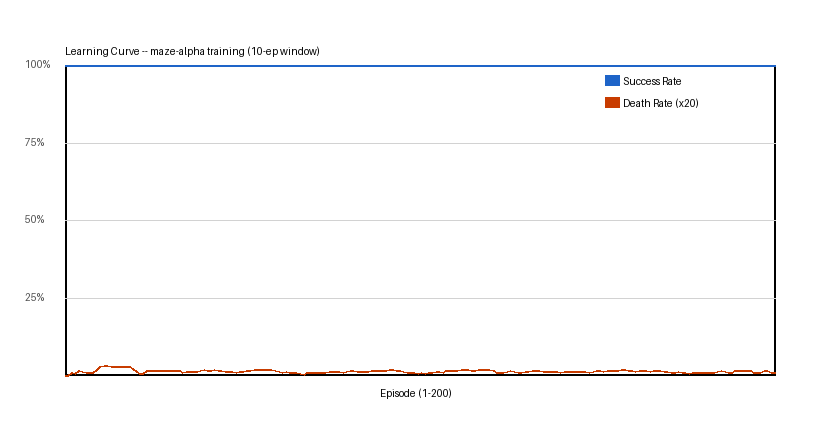
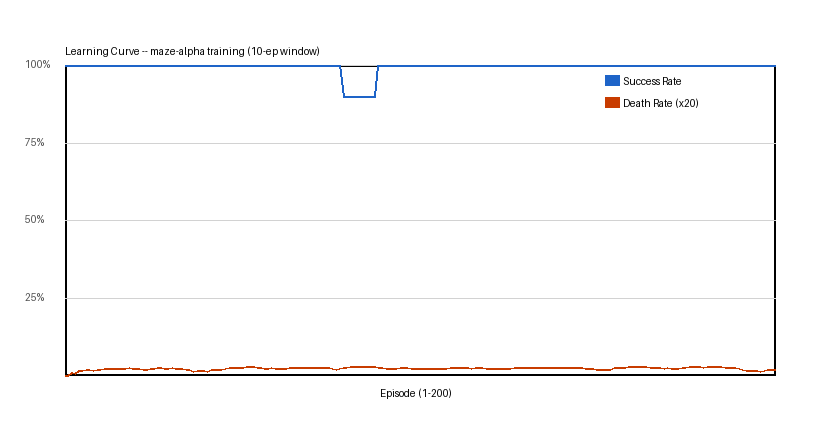
updated

Changed region(s): [[0.0929, 0.8273, 0.9286, 0.8568], [0.4024, 0.2068, 0.4643, 0.2364], [0.4024, 0.1477, 0.4643, 0.1773]]

diff --git a/Maze CheckIns/Final-Maze/maze_solve_final.py b/Maze CheckIns/Final-Maze/maze_solve_final.py
@@ -644,6 +644,15 @@ class Agent:
                 self.known[cur] = "free"   # fire rotated away -- cell safe now
             elif self.known.get(cur) != "confusion":
                 self.known.setdefault(cur, "free")
+            # Push pad: record the pad cell as a teleport edge so BFS routes
+            # through it correctly on future plans (prevents push-loop: agent
+            # plans through a "free" pad, gets displaced, replans through same pad).
+            if tr.pushed and tr.wall_hits == 0 and not prev_confused:
+                dx, dy = DELTAS.get(action, (0, 0))
+                pad    = (prev[0] + dx, prev[1] + dy)
+                if 0 <= pad[0] < GRID and 0 <= pad[1] < GRID:
+                    self.known.setdefault(pad, "teleport")
+                    self.tele[pad] = cur
 
         # Record confirmed traversable edge. An actually-walked cardinal step proves
         # the edge is wall-free in BOTH directions (walls are symmetric), so record
@@ -743,7 +752,7 @@ def transfer(src: Agent, eps: float, same_maze: bool = False) -> Agent:
 #  EPISODE RUNNER
 # ════════════════════════════════════════════════════════
 def run_episodes(env: MazeEnv, agent: Agent, n: int,
-                 train: bool, label: str) -> list:
+                 train: bool, label: str, explore: bool = False) -> list:
     all_stats = []
     for ep in range(n):
         pos = env.reset(ep)
@@ -781,11 +790,10 @@ def run_episodes(env: MazeEnv, agent: Agent, n: int,
         all_stats.append(agent.ep_stats)
         if train:
             agent.decay_epsilon()
-        elif agent.goal in agent._ep_cells:
-            # Goal was found this episode -- path is now in passable.
-            # Ratchet epsilon down so future episodes exploit the discovered path
-            # rather than wandering randomly. Q-table is not updated so this is
-            # not policy drift; it only controls BFS-vs-explore balance.
+        elif not explore and agent.goal in agent._ep_cells:
+            # Goal was found this episode -- ratchet epsilon down so future
+            # episodes exploit the discovered path.  Skipped in explore mode
+            # (pre-exploration passes) so epsilon stays high for full coverage.
             agent.epsilon = max(EPS_END, agent.epsilon * 0.5)
 
         if (ep + 1) % 20 == 0 or ep == n - 1:
@@ -928,12 +936,13 @@ def save_curve(stats: list, out: Path):
 # ════════════════════════════════════════════════════════
 def run_phase(path: Path, agent: Agent, n: int, train: bool,
               label: str, gamma_mode: bool = False,
-              train_stats: list | None = None) -> tuple:
+              train_stats: list | None = None,
+              explore: bool = False) -> tuple:
     print(f"\n{'='*52}")
     print(f"  {label}")
     print(f"{'='*52}")
     env   = MazeEnv(path, gamma_mode=gamma_mode)
-    stats = run_episodes(env, agent, n, train, label)
+    stats = run_episodes(env, agent, n, train, label, explore=explore)
     m     = report_metrics(stats, agent, env, label, train_stats)
 
     stem = path.stem
@@ -988,18 +997,35 @@ def main():
         train=False, label="MAZE-ALPHA  Test",
         train_stats=train_stats)
 
-    # 3 -- Test maze-beta (zero-shot -- DO NOT train)
-    # Use higher epsilon: alpha Q-values don't generalize to a different wall layout,
-    # so the agent must explore more to build a valid passable map for beta.
-    agent_bt = transfer(agent_train, eps=0.30)
-    agent_bt.goal_ward = True   # bias frontier exploration toward goal
+    # 3 -- Test maze-beta (zero-shot -- DO NOT train Q-table)
+    # Root-cause: beta's true shortest path (379 steps) goes far west before
+    # turning south, but Manhattan goal-ward bias pulls the agent east/right --
+    # the opposite direction.  Fix: pre-explore the blank beta layout (no hazards,
+    # no Q updates) with the transferred Q-table so the agent builds a complete
+    # passable/blocked map of beta's walls before facing hazards.  This mirrors
+    # the alpha pre-train -> alpha train flow and gives the test episodes a full
+    # wall map to navigate with, avoiding 4000-step wandering paths.
+    agent_bpre = transfer(agent_train, eps=0.5)   # 50% random, 50% frontier-BFS -> broad coverage
+    agent_bpre.goal_ward = False                  # no MD bias; explore evenly
+    run_phase(MAZE_BETA_BLANK, agent_bpre, TRAIN_EPISODES,
+              train=False, label="MAZE-BETA  Pre-explore (blank)", explore=True)
+
+    agent_bt = transfer(agent_bpre, eps=EPS_END, same_maze=True)
+    agent_bt.goal_ward = False
     test_b, _, _ = run_phase(
         MAZE_BETA, agent_bt, TEST_EPISODES,
         train=False, label="MAZE-BETA  Test (zero-shot)")
 
     # 4 -- Extra credit: maze-gamma (push-pad hazards)
-    agent_gt = transfer(agent_train, eps=0.30)
-    agent_gt.goal_ward = True   # bias frontier exploration toward goal
+    # Gamma's true path (275 steps) goes east/right, so goal_ward MD bias is
+    # helpful here.  Keep the original approach but also pre-explore blank layout.
+    agent_gpre = transfer(agent_train, eps=0.5)
+    agent_gpre.goal_ward = True   # gamma path goes east; bias exploration toward goal
+    run_phase(MAZE_GAMMA_BLANK, agent_gpre, PRETRAIN_EPISODES,
+              train=False, label="MAZE-GAMMA  Pre-explore (blank)", explore=True)
+
+    agent_gt = transfer(agent_gpre, eps=EPS_END, same_maze=True)
+    agent_gt.goal_ward = True    # gamma path goes east -- MD bias helps
     test_g, _, _ = run_phase(
         MAZE_GAMMA, agent_gt, TEST_EPISODES,
         train=False, label="MAZE-GAMMA  Test (extra credit)",